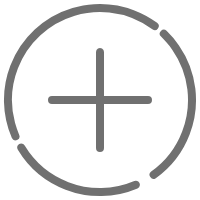
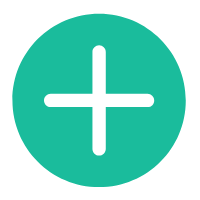
UI/搜索
1.优化了下UI
2. 修改添加群组按钮为悬浮式
3.把搜索功能重写在了主界面内，可以直接在当前页面搜索。

diff --git a/pages/index/index.js b/pages/index/index.js
@@ -7,6 +7,10 @@ var arr1 = [{ desc: '群组描述', content: "Group Name", id: 1 }, { desc: '群
 
 Page({
   data: {
+    /*search*/
+    inputShowed : false,
+    inputValue:"",
+    showSearch:false,
     /*modal*/
     showModal: false,
     /*drag*/
@@ -165,6 +169,21 @@ Page({
       showModal: true
     })
   },
+  showSearchBtn: function () {
+    this.setData({
+      showSearch: true,
+      
+    })
+  },
+  hideSearchBtn: function () {
+    this.setData({
+      showSearch: false,
+
+    })
+  },
+ onHide: function(){
+   this.hideSearchBtn();
+ },
   /**
    * 弹出框蒙层截断touchmove事件
    */
@@ -189,6 +208,29 @@ Page({
    */
   onConfirm: function () {
     this.hideModal();
+  }
+  ,
+  /*搜索框 */
+  showInput: function(){
+    this.setData({
+      inputShowed:true
+    });
+  },
+      hideInput: function () {
+    this.setData({
+      inputVal: "",
+      inputShowed: false
+    });
+  },
+  clearInput: function () {
+    this.setData({
+      inputVal: ""
+    });
+  },
+  inputTyping: function (e) {
+    this.setData({
+      inputVal: e.detail.value
+    });
   }
 
   
